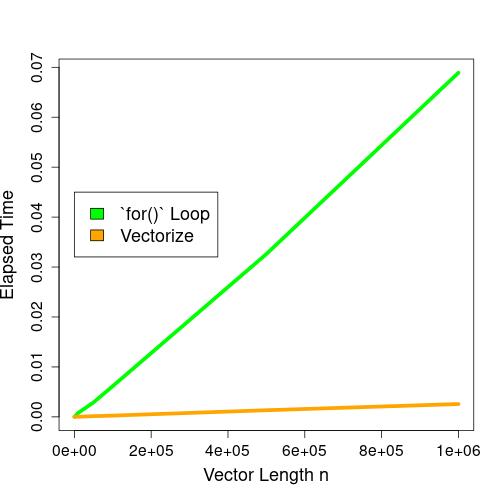
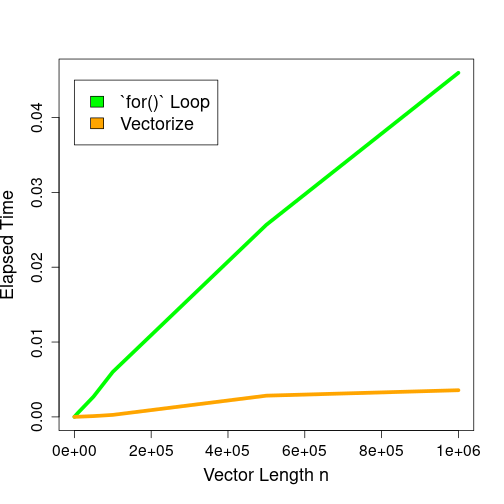
Add files via upload

diff --git a/_teaching/file_stat302/Lectures/Lecture3_Programming.html b/_teaching/file_stat302/Lectures/Lecture3_Programming.html
@@ -457,9 +457,7 @@ We often get bored when repeating the same task again and again...
 
 On the contrary, computers are good at applying rigid rules over and over again.
 
---
-
-Iteration eases our burden of cumbersome repetitions and is one of the essentials in programming.
+- Iteration eases our burden of cumbersome repetitions and is one of the essentials in programming.
 
 --
 
@@ -625,7 +623,7 @@ end_time = Sys.time()
 
 
 ```
-## The total execution time of the loop with concatenation is  4.432336  seconds!
+## The total execution time of the loop with concatenation is  4.06692  seconds!
 ```
 
 ---
@@ -657,7 +655,7 @@ all(log_vec1 ==  log_vec2)
 
 
 ```
-## The total execution time of the loop without concatenation is  0.01493216  seconds!
+## The total execution time of the loop without concatenation is  0.01536202  seconds!
 ```
 
 
@@ -666,6 +664,8 @@ all(log_vec1 ==  log_vec2)
 # Break From A Loop
 
 We can always stop a loop earlier (before the counter has been iterated over the vector for `for()` loop or satisfying the condition for `while()` loop), using the `break` statement.
+
+--
 
 
 ```r
@@ -815,7 +815,7 @@ cat("The `for` loop implementation takes ", end_time - start_time, " seconds to 
 ```
 
 ```
-## The `for` loop implementation takes  0.005261183  seconds to execute.
+## The `for` loop implementation takes  0.007285595  seconds to execute.
 ```
 
 ---
@@ -838,7 +838,7 @@ cat("The vectorization takes ", end_time - start_time, " seconds to execute.")
 ```
 
 ```
-## The vectorization takes  0.003005981  seconds to execute.
+## The vectorization takes  0.002520084  seconds to execute.
 ```
 
 --
@@ -850,6 +850,8 @@ cat("The vectorization takes ", end_time - start_time, " seconds to execute.")
 # `for()` Loop Versus Vectorization
 
 However, imagine what happen if the lengths of vectors are `\(n=100000\)`. Here is the `for()` loop implementation.
+
+--
 
 
 ```r
@@ -868,7 +870,7 @@ cat("The `for` loop implementation takes ", end_time - start_time, " seconds to 
 ```
 
 ```
-## The `for` loop implementation takes  0.01231146  seconds to execute.
+## The `for` loop implementation takes  0.01659393  seconds to execute.
 ```
 
 ---
@@ -891,7 +893,7 @@ cat("The vectorization takes ", end_time - start_time, " seconds to execute.")
 ```
 
 ```
-## The vectorization takes  0.002086639  seconds to execute.
+## The vectorization takes  0.001969576  seconds to execute.
 ```
 
 ---
@@ -1096,7 +1098,7 @@ cat("The total execution time using `apply()` is ", end_time - start_time, " sec
 ```
 
 ```
-## The total execution time using `apply()` is  0.007080793  seconds!
+## The total execution time using `apply()` is  0.005451441  seconds!
 ```
 
 Note: Here, we use our customized function in `apply()`. More details about writing our own function will be discussed in the next lecture.
@@ -1119,7 +1121,7 @@ cat("The total execution time of a direct computations is ", end_time - start_ti
 ```
 
 ```
-## The total execution time of a direct computations is  0.003722906  seconds!
+## The total execution time of a direct computations is  0.002741337  seconds!
 ```
 
 ---
@@ -1217,20 +1219,20 @@ The function `tapply()` takes inputs as: `tapply(x, INDEX = my.index, FUN = my.f
 ```r
 n = 17
 fac = factor(rep_len(1:3, n), levels = 1:5)
-1:17
-```
-
-```
-##  [1]  1  2  3  4  5  6  7  8  9 10 11 12 13 14 15 16 17
-```
-
-```r
 fac
 ```
 
 ```
 ##  [1] 1 2 3 1 2 3 1 2 3 1 2 3 1 2 3 1 2
 ## Levels: 1 2 3 4 5
+```
+
+```r
+1:17
+```
+
+```
+##  [1]  1  2  3  4  5  6  7  8  9 10 11 12 13 14 15 16 17
 ```
 
 ```r
@@ -1297,7 +1299,7 @@ family_df_sp[[1]]
 
 - The family of `apply` functions can also make our code more efficient.
 
-Submit Lab 3 on Gradescope by the end of Monday (January 29)!!
+Submit Lab 3 on Gradescope by the end of Tuesday (January 30)!!
     </textarea>
 <style data-target="print-only">@media screen {.remark-slide-container{display:block;}.remark-slide-scaler{box-shadow:none;}}</style>
 <script src="https://remarkjs.com/downloads/remark-latest.min.js"></script>

diff --git a/_teaching/file_stat302/Lectures/Lecture4_Data_Visualization.html b/_teaching/file_stat302/Lectures/Lecture4_Data_Visualization.html
@@ -240,6 +240,8 @@ Recall that R packages encapsulate functions written by different R developers.
 
 --
 
+Why do we need to learn data manipulation through `tidyverse`?
+
 - Learning pipes `%&gt;%` will facilitate our learning of the `dplyr` and `tidyr` verbs (or functions).
 
 - The functions in `dplyr` are analogous to SQL counterparts, so learning `dplyr` will get some SQL syntax for free!
